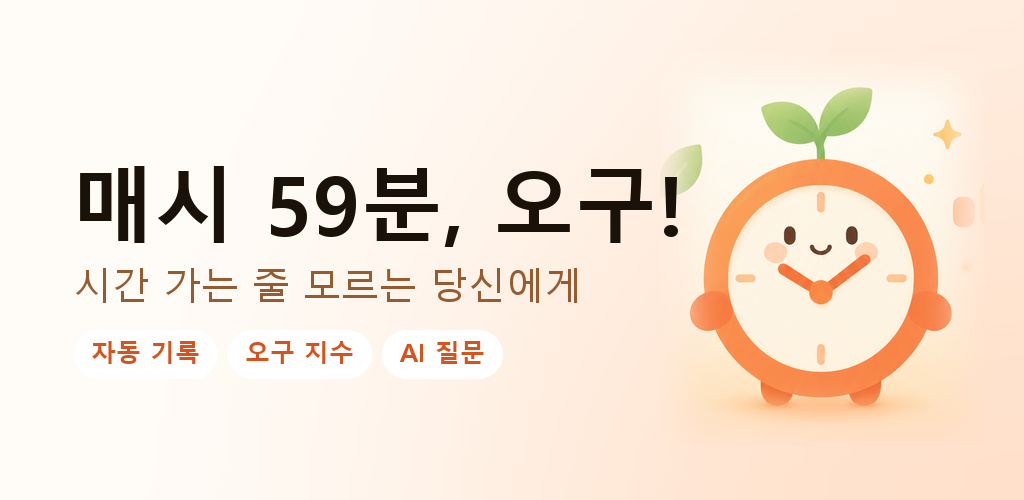
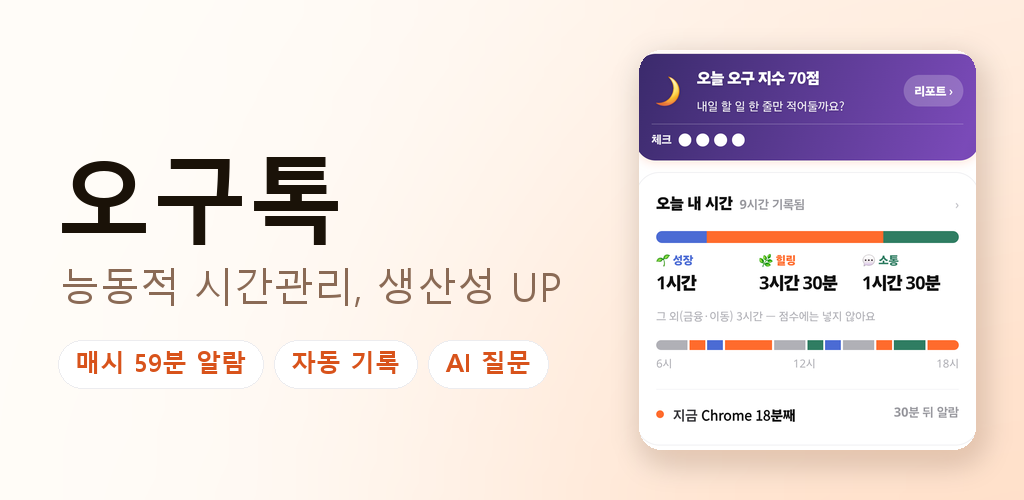
feat: 그래픽 이미지 — 마스코트 제거, 실제 앱 화면으로
오구톡 / 능동적 시간관리, 생산성 UP

시계 캐릭터를 뺐다. 귀여운 마스코트는 "알림 장난감" 으로 읽히는데
이 앱이 파는 것은 능동적 시간관리다.

"시간 가는 줄 모르는 당신에게" 도 뺐다. 사용자를 탓하는 말이고
설치 버튼을 누를 이유가 되지 못한다.

제목이 브랜드명이 되면서 59분이 빠지길래 첫 칩을 "매시 59분 알람" 으로
바꿔 그 자리를 메웠다.

오른쪽은 실제 홈 화면(70점 · 성장 1시간 · 힐링 3시간 30분)이다.
"생산성 UP" 은 누구나 쓰는 말이라 그 자체로는 아무것도 증명하지 못한다.
숫자가 옆에 있어야 그 말이 무엇으로 뒷받침되는지 보인다.

store_feature.py 에 a(숫자 59) · b(시계 눈금) 도 남겨 뒀다. 기본은 c.

diff --git a/scripts/store_feature.py b/scripts/store_feature.py
@@ -6,10 +6,10 @@ python scripts/store_feature.py <출력png> [a|b|c]
 마스코트(promo-bg.png 의 시계 캐릭터)는 쓰지 않는다. 귀여운 그림은
 "알림 장난감" 으로 읽히고, 이 앱이 파는 것은 능동적 시간 관리다.
 
-오른쪽 자리를 셋 중 하나로 채운다:
-  a  큰 59 숫자 — 이름이 곧 기능이다
-  b  시계 눈금 — 정각 1분 전이라는 위치를 그림 하나로
-  c  실제 앱 화면 — 점수가 쌓인 홈
+오른쪽 자리를 셋 중 하나로 채운다 (기본 c):
+  a  큰 59 숫자 — 첫 칩("매시 59분 알람")과 같은 말을 두 번 한다
+  b  시계 눈금 — 깔끔하지만 추상적인 문구에 추상적인 그림이라 남는 게 없다
+  c  실제 앱 화면 — "생산성 UP" 이 무엇으로 뒷받침되는지 옆에서 바로 보인다
 
 문구는 능동형으로 쓴다. "시간 가는 줄 모르는 당신에게" 는 사용자를
 탓하는 말이고, 설치 버튼을 누를 이유가 되지 못한다.
@@ -25,9 +25,10 @@ ORANGE   = (216, 83, 27)
 ORANGE_L = (255, 107, 44)
 LINE     = (236, 236, 239)
 
-TITLE = '매시 59분, 오구!'
-SUB   = '다음 한 시간을 내가 정합니다'
-CHIPS = ('59분 알람', '자동 기록', 'AI 질문')
+TITLE = '오구톡'
+SUB   = '능동적 시간관리, 생산성 UP'
+# 제목이 브랜드명이라 59분이 빠진다 → 첫 칩이 그 자리를 메운다
+CHIPS = ('매시 59분 알람', '자동 기록', 'AI 질문')
 
 SHOT = 'store/s2-home-src.png'   # 없으면 c 안은 건너뛴다
 
@@ -105,7 +106,7 @@ RIGHT = {'a': right_number, 'b': right_dial, 'c': right_screen}
 
 def main():
     out = sys.argv[1] if len(sys.argv) > 1 else 'store/feature-1024x500.png'
-    variant = (sys.argv[2] if len(sys.argv) > 2 else 'a').lower()
+    variant = (sys.argv[2] if len(sys.argv) > 2 else 'c').lower()
 
     base = Image.new('RGB', (W, H), CREAM)
     a, tint = glow((W, H), (900, 470), 420, (255, 150, 80))
@@ -114,16 +115,16 @@ def main():
     RIGHT[variant](canvas)
 
     draw = ImageDraw.Draw(canvas)
-    draw.text((56, 156), TITLE, font=ImageFont.truetype(FONT_BD, 74), fill=INK)
-    draw.text((58, 258), SUB, font=ImageFont.truetype(FONT_RG, 36), fill=INK_SUB)
+    draw.text((56, 132), TITLE, font=ImageFont.truetype(FONT_BD, 96), fill=INK)
+    draw.text((60, 258), SUB, font=ImageFont.truetype(FONT_RG, 40), fill=INK_SUB)
 
     f = ImageFont.truetype(FONT_BD, 25)
     x = 58
     for label in CHIPS:
         x0, y0, x1, y1 = draw.textbbox((0, 0), label, font=f)
         w = (x1 - x0) + 34
-        draw.rounded_rectangle([x, 334, x + w, 334 + 48], 24, fill=(255, 255, 255), outline=LINE)
-        draw.text((x + 17 - x0, 334 + 11 - y0), label, font=f, fill=ORANGE)
+        draw.rounded_rectangle([x, 340, x + w, 340 + 48], 24, fill=(255, 255, 255), outline=LINE)
+        draw.text((x + 17 - x0, 340 + 11 - y0), label, font=f, fill=ORANGE)
         x += w + 11
 
     canvas.convert('RGB').save(out, 'PNG', optimize=True)

diff --git a/store/README.md b/store/README.md
@@ -45,6 +45,21 @@ Play Console > 스토어 설정 > 그래픽
 - **AdMob 배너** — 로그아웃 상태에서만 뜬다(`isPremium = isLoggedIn`).
   남의 상품 사진이 우리 스토어에 올라가면 안 된다
 
+## 그래픽 이미지
+
+`python scripts/store_feature.py store/feature-1024x500.png [a|b|c]` (기본 c)
+
+마스코트(promo-bg.png 의 시계 캐릭터)는 쓰지 않는다 — 귀여운 그림은
+"알림 장난감" 으로 읽히고, 이 앱이 파는 것은 능동적 시간관리다.
+
+문구는 `오구톡 / 능동적 시간관리, 생산성 UP`.
+제목이 브랜드명이라 59분이 빠지므로 첫 칩("매시 59분 알람")이 그 자리를 메운다.
+
+오른쪽은 실제 앱 화면(c)이다. "생산성 UP" 은 누구나 쓰는 말이라 그 자체로는
+아무것도 증명하지 못한다 — 옆에 70점과 성장·힐링·소통 시간이 같이 있어야
+그 말이 무엇으로 뒷받침되는지 보인다. 화면은 `store/s2-home-src.png` 에서
+오려 쓰므로, 홈을 다시 찍으면 이 파일도 함께 갈아 끼운다.
+
 ## 아이콘이 셋으로 갈려 있다
 
 - `public/icon-512.png` — 보라·분홍 (PWA)
